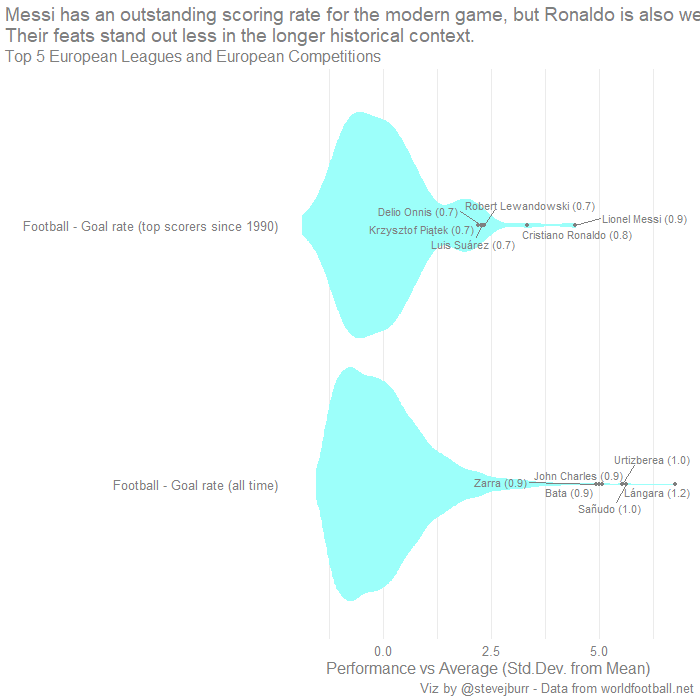
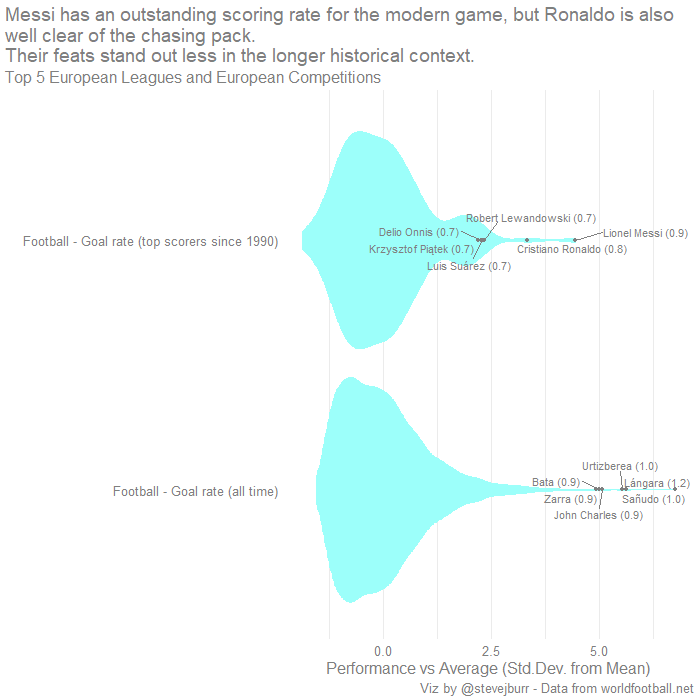
Updated captions and football graph

diff --git a/content/post/2019-05-22-the-best-records-in-sports.html b/content/post/2019-05-22-the-best-records-in-sports.html
@@ -27,28 +27,19 @@ tags: []
 <p>If the variables are normally distributed (look like a bell curve) then a value which is greater than 3 is the top 0.01% of performance. As we’ll see, a lot of these variables aren’t normally distributed so this analysis isn’t perfect, but I think it’s an acceptable attempt at what is probably an impossible problem.</p>
 <p>For most of the records I’ve looked at rates to try and control for the fact that in a lot of sports the number of games played has increased over time. This means that it’s easier to stand out with a smaller number of games played, but there will always be compromises when converting down to a single number.</p>
 <p>With that in mind, here’s a visual looking at the grass, clay and overall win rates of tennis players:</p>
-<div class="figure">
-<img src="/post/2019-05-22-the-best-records-in-sports_files/tennis.png" alt="Tennis win rates by court type" />
-<p class="caption">Tennis win rates by court type</p>
-</div>
+<p><img src="/post/2019-05-22-the-best-records-in-sports_files/tennis.png" /></p>
 <p>An interesting stat (to me anyway) I uncovered while building this is that Andy Murray has a better win rate on grass courts than both Pete Sampras and Novak Djokovic. Djokovic ending up with the 6th best all time Clay win rate is also interesting given he’s had to deal with overlapping with Nadal.</p>
 </div>
 <div id="cricket" class="section level4">
 <h4>Cricket</h4>
 <p>I’ve already mentioned Don Bradman’s test cricket batting average, so let’s move on to look at cricket. Here I found the data on Espncricinfo and filter to all players who have played in at least 10 test matches.</p>
-<div class="figure">
-<img src="/post/2019-05-22-the-best-records-in-sports_files/cricket.png" alt="Test cricket batting averages" />
-<p class="caption">Test cricket batting averages</p>
-</div>
+<p><img src="/post/2019-05-22-the-best-records-in-sports_files/cricket.png" /></p>
 <p>Whereas in tennis you can argue that Bjorn Borg is in the rough region of Nadal’s dominance on clay, no one is close to Bradman.</p>
 </div>
 <div id="formula-1" class="section level4">
 <h4>Formula 1</h4>
 <p>Moving on to Formula 1, currently we’re seeing Lewis Hamilton potentially on course to end his career with the a record number of wins, poles and championships. But if we focus on his per race stats, how does he stack up?</p>
-<div class="figure">
-<img src="/post/2019-05-22-the-best-records-in-sports_files/f1.png" alt="Formula 1 Records" />
-<p class="caption">Formula 1 Records</p>
-</div>
+<p><img src="/post/2019-05-22-the-best-records-in-sports_files/f1.png" /></p>
 <p>This data was filtered to drivers with at least one win, one pole or one fastest lap over their careers.</p>
 <p>You can make a case for Hamilton being by far the most statistically successful driver in the modern era, but he falls short of the ridiculous statistics acheived by Fangio, Ascari and Clark. On the subject of Jim Clark, the piece Richard Hammond presented on him in most recent series of the Grand Tour is excellent and worth a watch for F1 fans.</p>
 </div>
@@ -57,19 +48,13 @@ tags: []
 <p>Finally, we can move back to football and see how Messi stands out on the same metrics. I’ve used two different data sources for this, one is a copy of John Burn-Mudroch’s data set which sits behind his visualisation which covers 186 of the best goal scores in the top european leagues since 1990. The full definitions can be seen <a href="https://johnburnmurdoch.github.io/projects/goal-lines/all-comps/">here</a>.</p>
 <p>I also scraped a more extensive set of data which covers the top 1000 all time goal scorers from each of the top five european leagues and major european club competitions. It turned out to be quite hard to get something in the middle of these two datasets as it would involve needing to grab information from a lot of different pages so I’ve left it as is.</p>
 <p>It’s quite interesting to see the impressive stats of names from the 1940s-1960s who I’d never come across before, even if they aren’t really that comparable to the modern game.</p>
-<div class="figure">
-<img src="/post/2019-05-22-the-best-records-in-sports_files/football.png" alt="Football stats over time" />
-<p class="caption">Football stats over time</p>
-</div>
+<p><img src="/post/2019-05-22-the-best-records-in-sports_files/football.png" /></p>
 <p>Here, Messi stands out in the modern era, but depsite the similar distributions for the bulk of players his acheivements aren’t as extreme in the context of the history of football. And though Messi does stand relatively alone in the modern era, Cristiano Ronaldo clearly bridges the gap to the rest of the pack as another exceptional performer. This is a bit similar to Bjorn Borg’s clay court record in tennis making Nadal look less of an outlier than he otherwise would.</p>
 </div>
 <div id="putting-it-all-together" class="section level4">
 <h4>Putting it all together</h4>
 <p>Finally, let’s combine the most interesting figures from each sport into one visual and see how everyone stacks up:</p>
-<div class="figure">
-<img src="/post/2019-05-22-the-best-records-in-sports_files/main.png" alt="All sports stats combined" />
-<p class="caption">All sports stats combined</p>
-</div>
+<p><img src="/post/2019-05-22-the-best-records-in-sports_files/main.png" /></p>
 <p>Where do we end up?</p>
 <ul>
 <li>The best F1 pole sitters are more extreme than the best records from the other sports we’ve seen here.</li>
